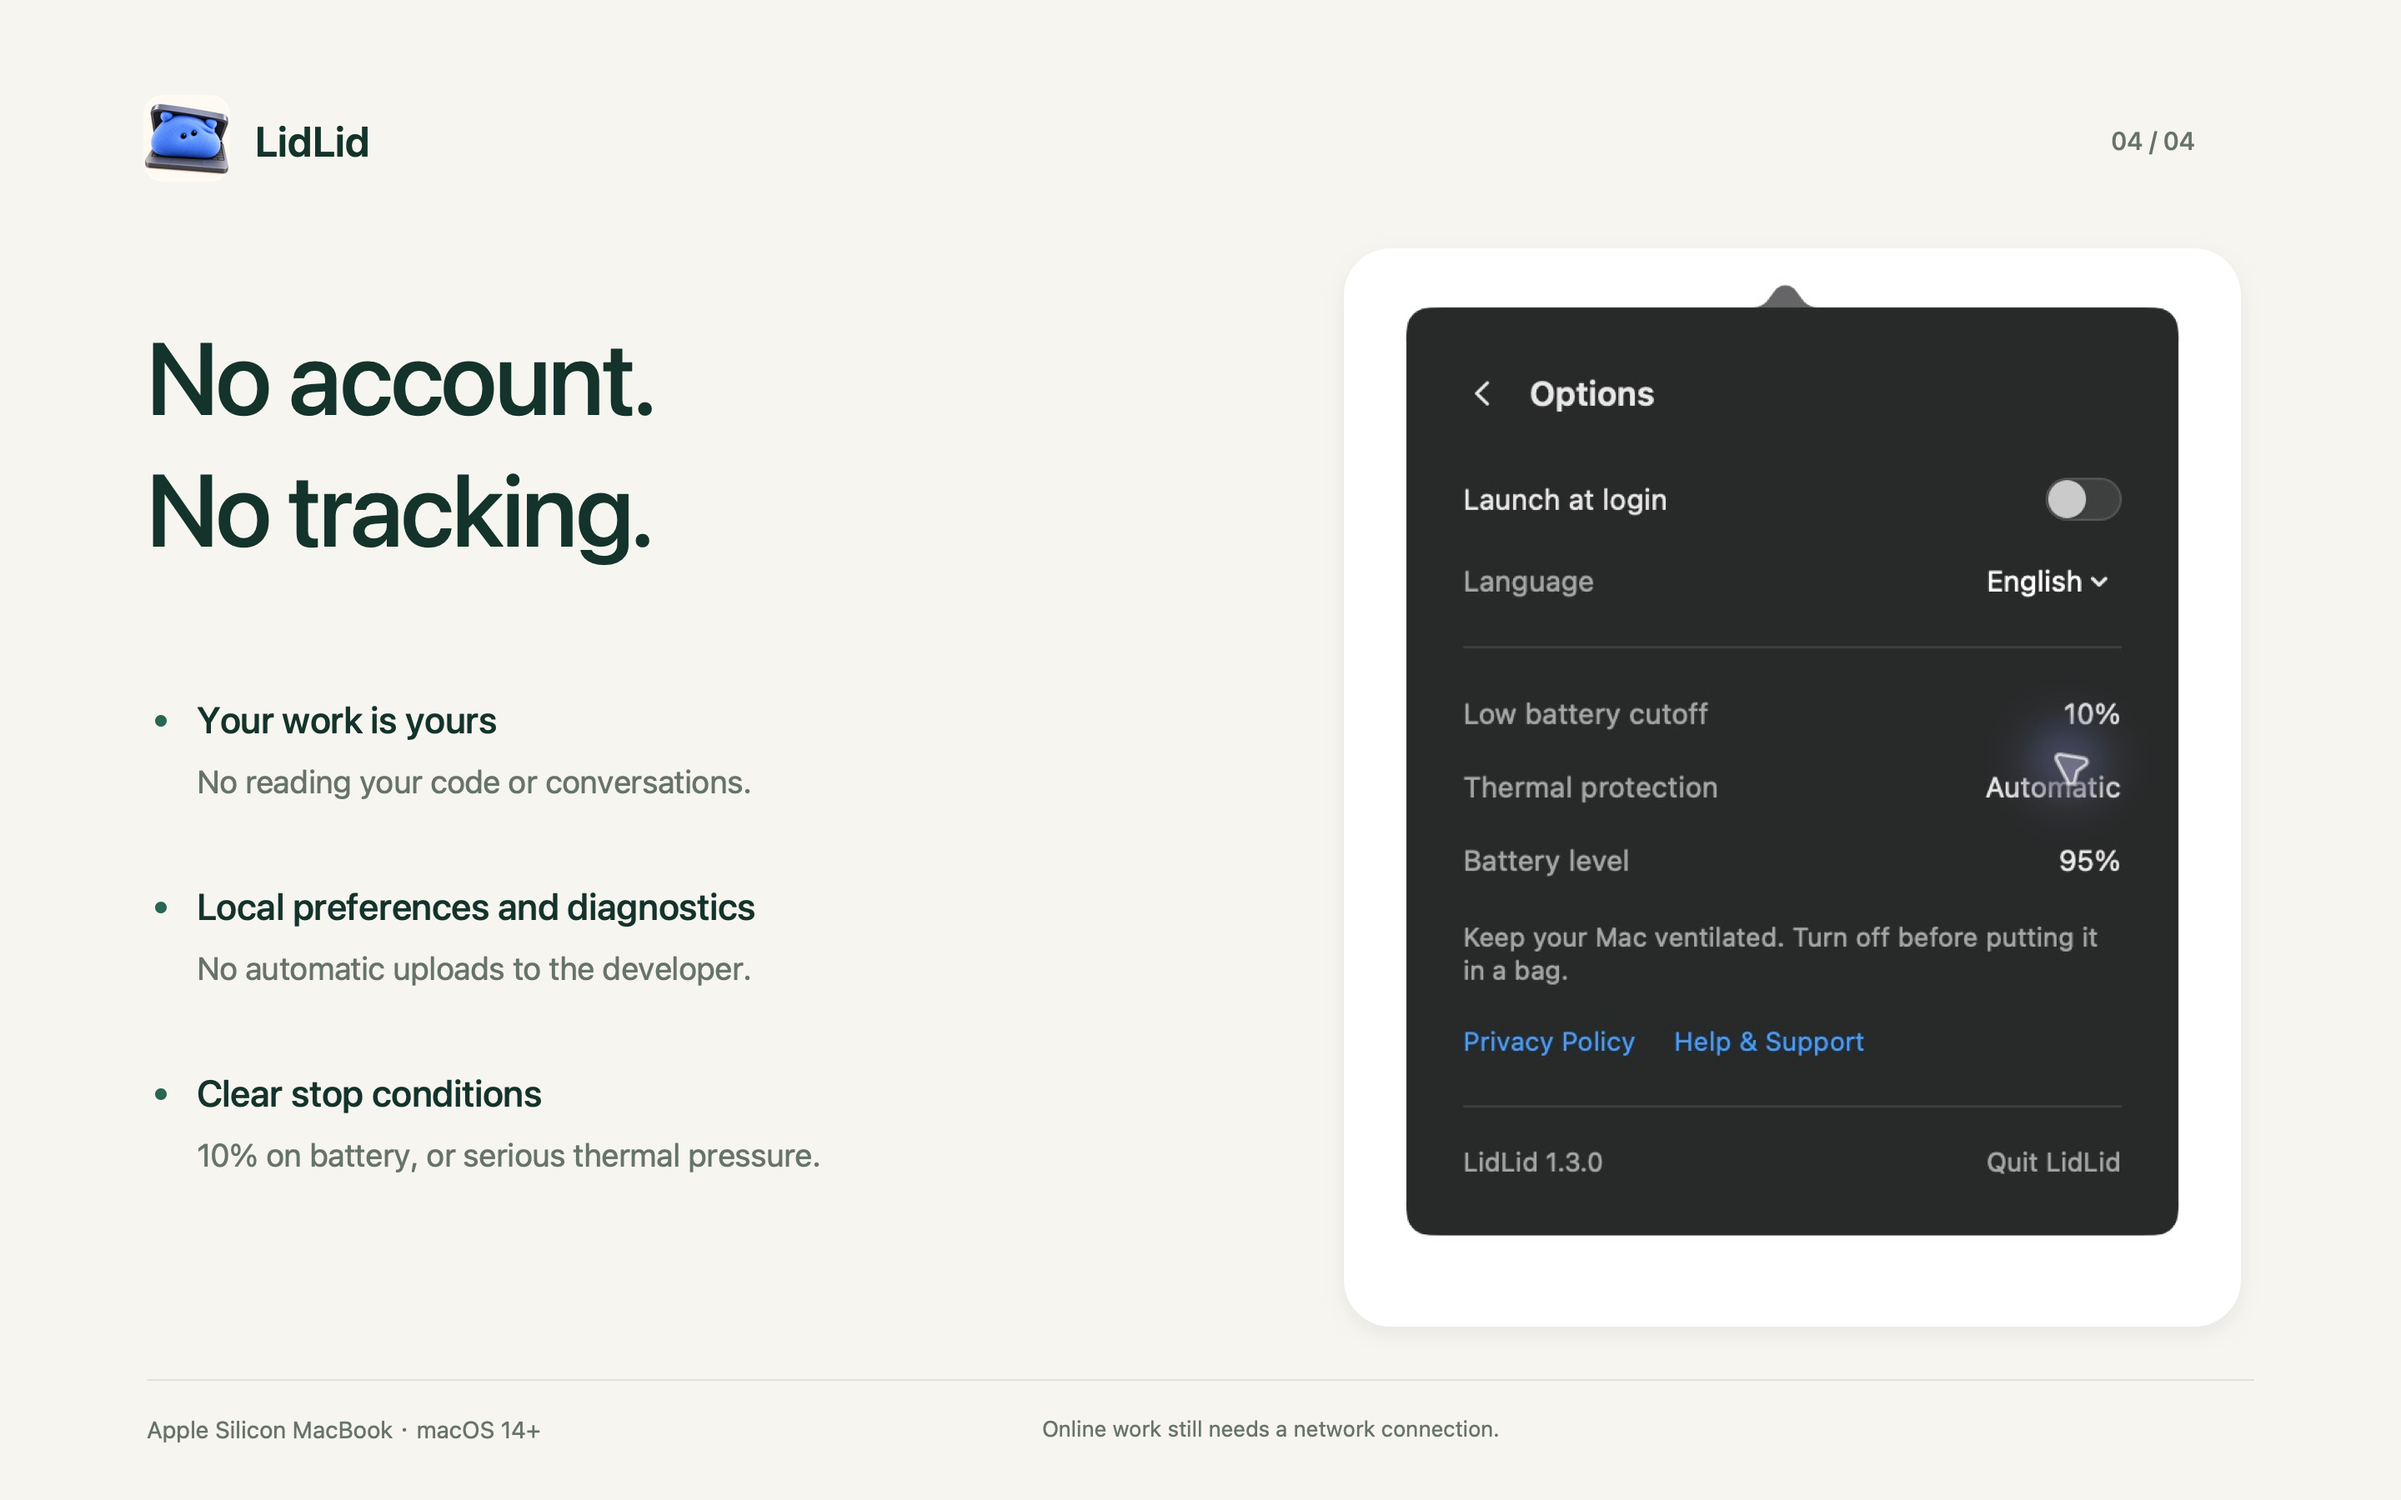
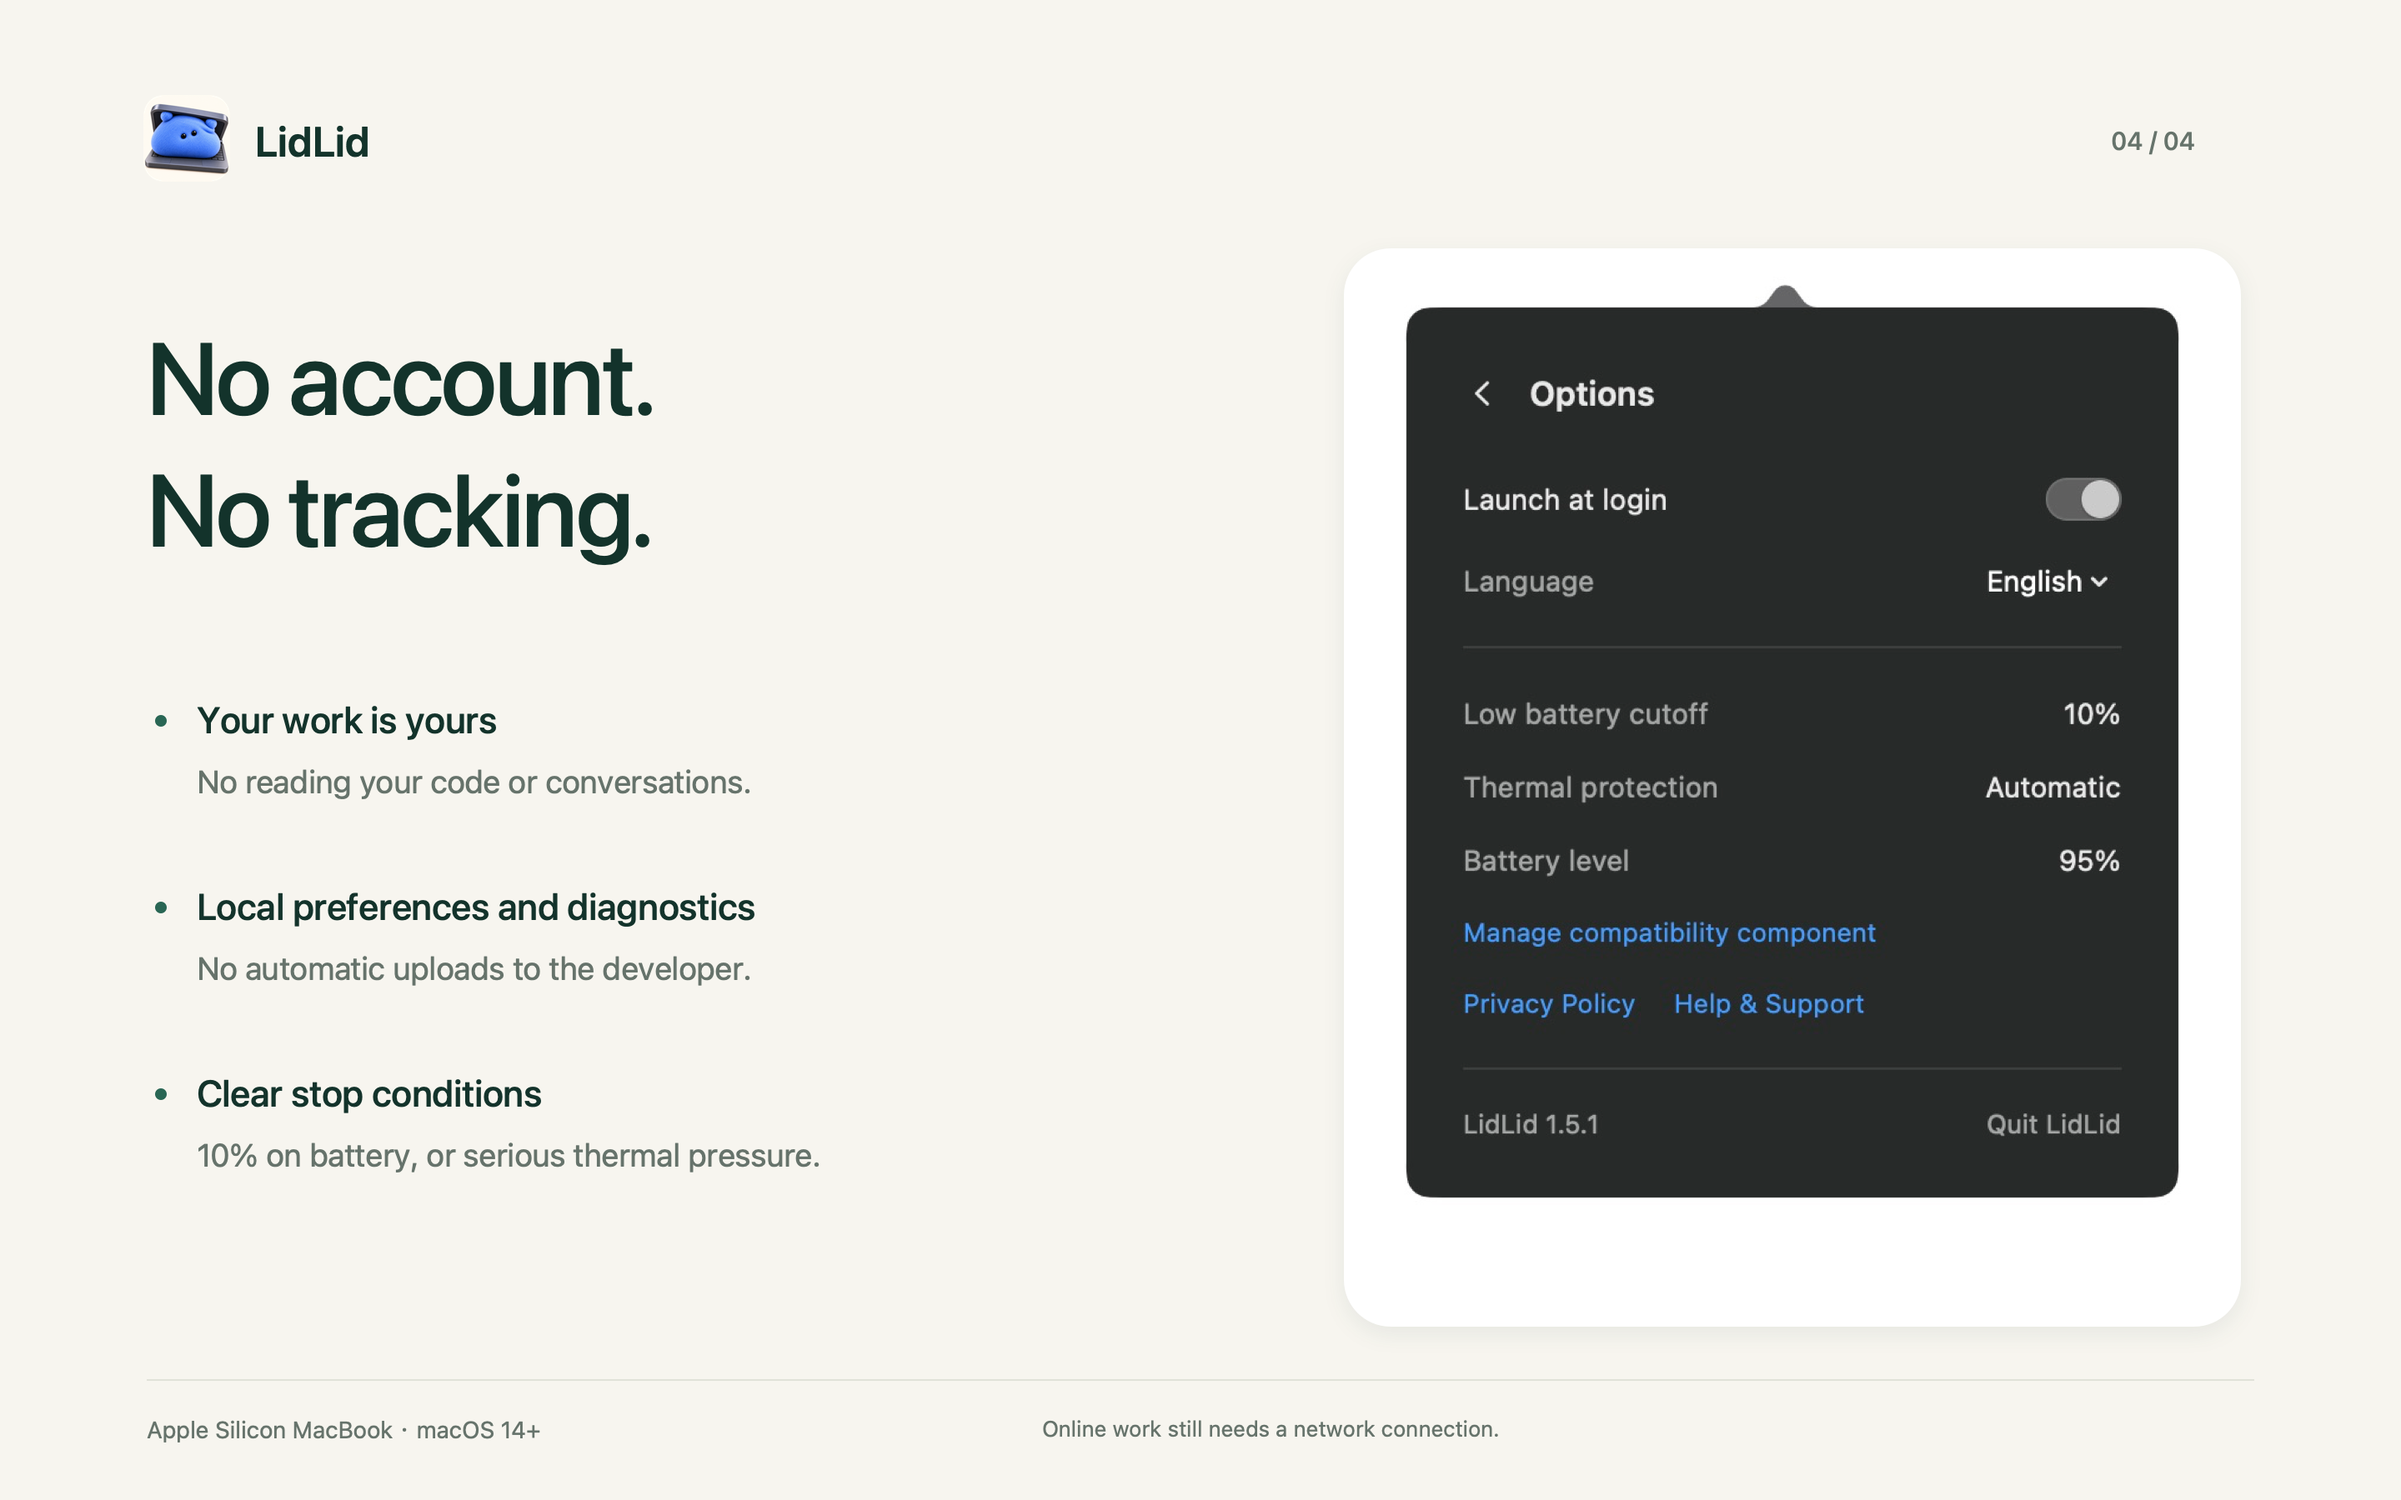
Refresh English options screenshots from version 1.5.1

diff --git a/docs/app-store/index.html b/docs/app-store/index.html
@@ -81,7 +81,7 @@ Compatibility and use
 Requires an Apple Silicon MacBook and macOS 14 or later. Intel Macs and desktop Macs are not supported. Disconnect external displays before enabling a session.
 
 LidLid does not make online tasks work offline, or save and manage work in other apps.</pre><small>2518 characters</small></article><article class="field"><div><h3>版本说明 / Release notes</h3><button class="copy" data-copy="en-US-release_notes">复制 / Copy</button></div><pre id="en-US-release_notes">Open-lid keep-awake now uses a blue guardian in the menu bar. One-shot closed-lid sessions keep the native monochrome icon. Simplified interface copy.</pre><small>150 characters</small></article><article class="field"><div><h3>官网 / Marketing URL</h3><button class="copy" data-copy="en-US-marketing_url">复制 / Copy</button></div><pre id="en-US-marketing_url">https://lidlid.vercel.app/en/</pre><small></small></article><article class="field"><div><h3>支持 / Support URL</h3><button class="copy" data-copy="en-US-support_url">复制 / Copy</button></div><pre id="en-US-support_url">https://lidlid.vercel.app/en/support/</pre><small></small></article><article class="field"><div><h3>隐私政策 / Privacy Policy URL</h3><button class="copy" data-copy="en-US-privacy_url">复制 / Copy</button></div><pre id="en-US-privacy_url">https://lidlid.vercel.app/en/privacy/</pre><small></small></article>
-<h2>Privacy and review materials</h2><div class="links"><a href="privacy/en-US.html">Full privacy policy ↗</a><a href="privacy/en-US.txt">TXT ↗</a><a href="review-notes.en.txt">App Review notes ↗</a></div></section><aside class="note"><h3>提交前补齐</h3><p>公开客服邮箱：<a href="mailto:kf953741@gmail.com">kf953741@gmail.com</a>。</p><p>仍需补齐 Apple 审核联系人、开发者账户与发行签名、定价和销售地区。</p><p>实际合盖和新组件实机验证待完成。现有截图来自 1.3.0，提交当前版本前需重新采集与核对。</p><div class="links"><a href="SUBMISSION.md">提交准备清单 ↗</a><a href="PRIVACY-ANSWERS.md">隐私问卷答案 ↗</a></div></aside><footer>上传 screenshots 内的完整 PNG。此页面与总览图用于核对资料，均不是待上传截图。</footer></main><script>
+<h2>Privacy and review materials</h2><div class="links"><a href="privacy/en-US.html">Full privacy policy ↗</a><a href="privacy/en-US.txt">TXT ↗</a><a href="review-notes.en.txt">App Review notes ↗</a></div></section><aside class="note"><h3>提交前补齐</h3><p>公开客服邮箱：<a href="mailto:kf953741@gmail.com">kf953741@gmail.com</a>。</p><p>仍需补齐 Apple 审核联系人、开发者账户与发行签名、定价和销售地区。</p><p>实际合盖和新组件实机验证待完成。中英文选项页面已更新为 1.5.1 实拍；其余截图来自 1.3.0，提交前仍需重新采集与核对。</p><div class="links"><a href="SUBMISSION.md">提交准备清单 ↗</a><a href="PRIVACY-ANSWERS.md">隐私问卷答案 ↗</a></div></aside><footer>上传 screenshots 内的完整 PNG。此页面与总览图用于核对资料，均不是待上传截图。</footer></main><script>
 for(const b of document.querySelectorAll('[data-locale]')) b.addEventListener('click',()=>{for(const s of document.querySelectorAll('.locale'))s.hidden=s.id!==b.dataset.locale;for(const t of document.querySelectorAll('[data-locale]'))t.setAttribute('aria-selected',String(t===b));document.documentElement.lang=b.dataset.locale==='zh-Hans'?'zh-CN':'en';});
 for(const b of document.querySelectorAll('[data-copy]')) b.addEventListener('click',async()=>{const value=document.getElementById(b.dataset.copy).textContent;try{await navigator.clipboard.writeText(value);document.getElementById('status').textContent='已复制 / Copied';}catch{const range=document.createRange();range.selectNodeContents(document.getElementById(b.dataset.copy));const selection=getSelection();selection.removeAllRanges();selection.addRange(range);document.getElementById('status').textContent='已选中文字，请复制 / Text selected. Copy to continue.';}});
 </script></body></html>

diff --git a/docs/app-store/SUBMISSION.md b/docs/app-store/SUBMISSION.md
@@ -1,6 +1,6 @@
 # 盖盖 Mac App Store 提交准备
 
-当前代码为 1.5.1 构建 10，改为「沙盒商店主应用＋独立免费兼容组件」。正式组件 DMG 的 Developer ID 签名、公证、实机测试和商店发行签名完成前不要提交。现有截图来自 1.3.0 构建 7，需用 1.5.1 重新采集、核对首次设置和选项页面。
+当前代码为 1.5.1 构建 10，改为「沙盒商店主应用＋独立免费兼容组件」。正式组件 DMG 的 Developer ID 签名、公证、实机测试和商店发行签名完成前不要提交。中英文选项页面已更新为 1.5.1 实拍；其余界面截图来自 1.3.0 构建 7，需用 1.5.1 重新采集、核对。
 
 组件架构与验证见 [COMPATIBILITY-ENGINEERING.md](../COMPATIBILITY-ENGINEERING.md)，面向用户的设置说明见 [COMPATIBILITY.zh-CN.md](../COMPATIBILITY.zh-CN.md)。所有完成状态以实际验证记录为准。
 
@@ -32,7 +32,7 @@
 | 独立组件正式分发 | Developer ID 签名、公证并提供真实下载 URL，免费，不由商店主应用自动安装 |
 | App Group | 同一开发团队配置 63ALH54858.dev.kf.lidonce，验证商店发行签名下的 XPC 通信 |
 | 实际合盖测试 | 电池且无外接屏、屏幕唤醒回归、电源切换、开盖恢复、下一次正常睡眠均待实测 |
-| 最终截图 | 当前为 1.3.0，1.5.1 新界面需重新采集核对 |
+| 最终截图 | 中英文选项页面为 1.5.1；其余 1.3.0 截图需重新采集核对 |
 | 商店发行签名及上传校验 | 仍需配置 Apple 发行签名；本机沙盒临时签名不等于商店发行包 |
 
 submission-inputs.example.json 只保存可分享的空模板。若记录实际审核联系人，请使用未跟踪的 submission-inputs.local.json，并在本机保管。
